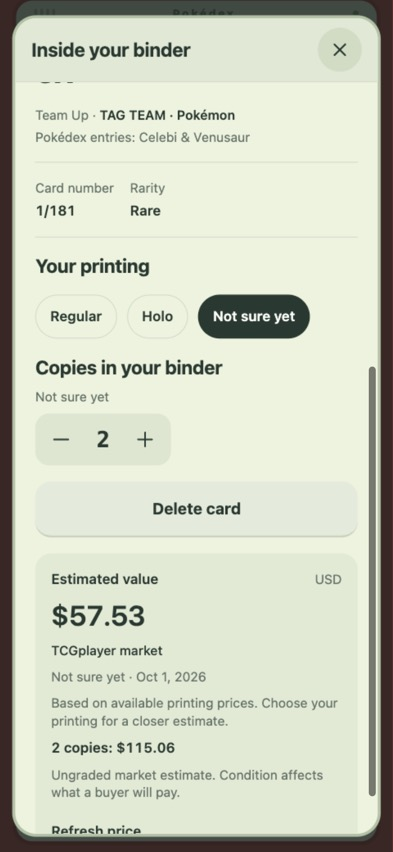
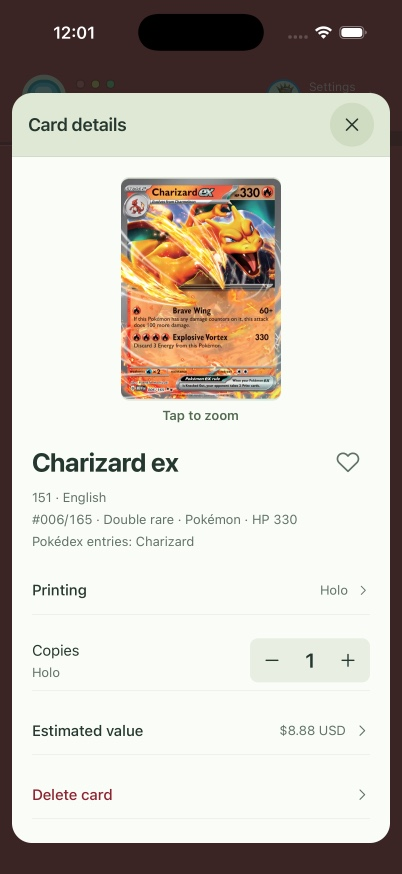
Add complete native sheet comparisons and review coverage

diff --git a/docs/design-review/README.md b/docs/design-review/README.md
@@ -1,0 +1,42 @@
+# Native iOS design review
+
+These are actual iPhone 17 Pro / iOS 26.5 simulator captures. **Before** shows the first design proposal reviewed in this PR stack; **after** shows the completed revision across all three layers. The after photos demonstrate the integrated app, including changes from dependent PRs.
+
+Both versions use Ash's existing collection: 12 cards, 10 discovered Pokémon, 2 earned badges, and no wishlist entries. Default captures use the iOS `large` text setting. Files marked `large-text` use `accessibility-medium`; the app retains its existing 1.4× body text scaling limit. JPEG conversion changes only the image encoding.
+
+The matching route is Pokédex → Binder → Scan → Settings → trainer appearance. Recordings are played at **2× speed**, with no interface content altered:
+
+- [Before simulator walkthrough](native-before-walkthrough.mp4)
+- [After simulator walkthrough](native-after-walkthrough.mp4)
+
+## Collection screens
+
+| Screen | Before: first proposal | After: completed revision |
+| --- | --- | --- |
+| Pokédex | <img src="pokedex-layout-before.jpg" width="260" alt="Native Pokédex before, with competing invitation and summary cards"> | <img src="pokedex-layout-after.jpg" width="260" alt="Native Pokédex after, with collection content and quiet secondary actions"> |
+| Binder | <img src="binder-actions-before.jpg" width="260" alt="Native Binder before, with summary panels above the cards"> | <img src="binder-actions-after.jpg" width="260" alt="Native Binder after, with compact actions and cards visible immediately"> |
+| Card captions | <img src="binder-captions-before.jpg" width="260" alt="Original native Binder captions below expanded toolbar groups"> | <img src="binder-captions-after.jpg" width="260" alt="Revised native Binder captions with consolidated metadata and value text"> |
+| Badges | <img src="badges-before.jpg" width="260" alt="Native Badges before"> | <img src="badges-after.jpg" width="260" alt="Native Badges after, using achievement rows"> |
+
+Additional native captures: [Binder pages](binder-pages-after.jpg), [Overview](binder-overview-after.jpg), [set checklist](set-checklist-after.jpg), [Quiz](quiz-after.jpg), [larger-text Pokédex](pokedex-large-text-after.jpg), and [larger-text Binder](binder-large-text-after.jpg).
+
+## Capture and sheets
+
+| Screen | Before: first proposal | After: completed revision |
+| --- | --- | --- |
+| Scan | <img src="scan-language-before.jpg" width="260" alt="Native Scan before, with a decorative capture panel and multiple button groups"> | <img src="scan-language-after.jpg" width="260" alt="Native Scan after, with direct language choice and a clear camera action"> |
+| Settings | <img src="settings-before.jpg" width="260" alt="Native Settings before, with several forms visible together"> | <img src="settings-after.jpg" width="260" alt="Native Settings after, with grouped destinations"> |
+| Owned card | <img src="card-quantity-before.jpg" width="260" alt="Native Charizard card details before"> | <img src="card-quantity-after.jpg" width="260" alt="Native Charizard card details after, with compact identity and copy controls"> |
+| Appearance | <img src="trainer-builder-before.jpg" width="260" alt="Native appearance editor before, with a trainer card and expanded choice groups"> | <img src="trainer-builder-after.jpg" width="260" alt="Native appearance editor after, with a compact live avatar and choice rows"> |
+
+Additional native captures: [manual entry](manual-entry-after.jpg), [manual review above the keyboard](manual-keyboard-after.jpg), [unsaved card review](manual-review-after.jpg), [name editor above the keyboard](name-keyboard-after.jpg), [page scan](page-scan-after.jpg), [Pokémon details and evolution](species-after.jpg), [Wishlist](wishlist-after.jpg), [About](about-after.jpg), and a [native choice menu](native-choice-menu-after.jpg).
+
+Larger-text captures: [Scan](native-controls-large-text-after.jpg), [card details](card-large-text-after.jpg), [appearance](builder-large-text-after.jpg), [About](about-large-text-after.jpg), and [reachable deletion confirmation](delete-confirmation-large-text-after.jpg).
+
+## Verification
+
+Native checks covered the main tabs, scrolling with persistent navigation, native sort/view choices, Binder pages, Overview and set checklist handoffs, expanded achievement lists, Quiz opening, Pokémon details, Wishlist, Settings destinations, unsaved appearance changes, the name-editor keyboard, manual entry → card review, page-layout choices, and last-copy removal → Keep it. The default and larger-text layouts were inspected on the simulator. Accessibility snapshots were checked for complete card identities and selected/disabled control states.
+
+No trainer names, appearances, cards, quantities, favorites, or wishes were saved during these checks. The native collection totals remained unchanged.
+
+TypeScript, the 142 existing tests, and the final Expo SDK 57 iOS production export passed. The screen audit and shared patterns are documented in [design-system.md](../design-system.md), with references to Apple's Human Interface Guidelines.
